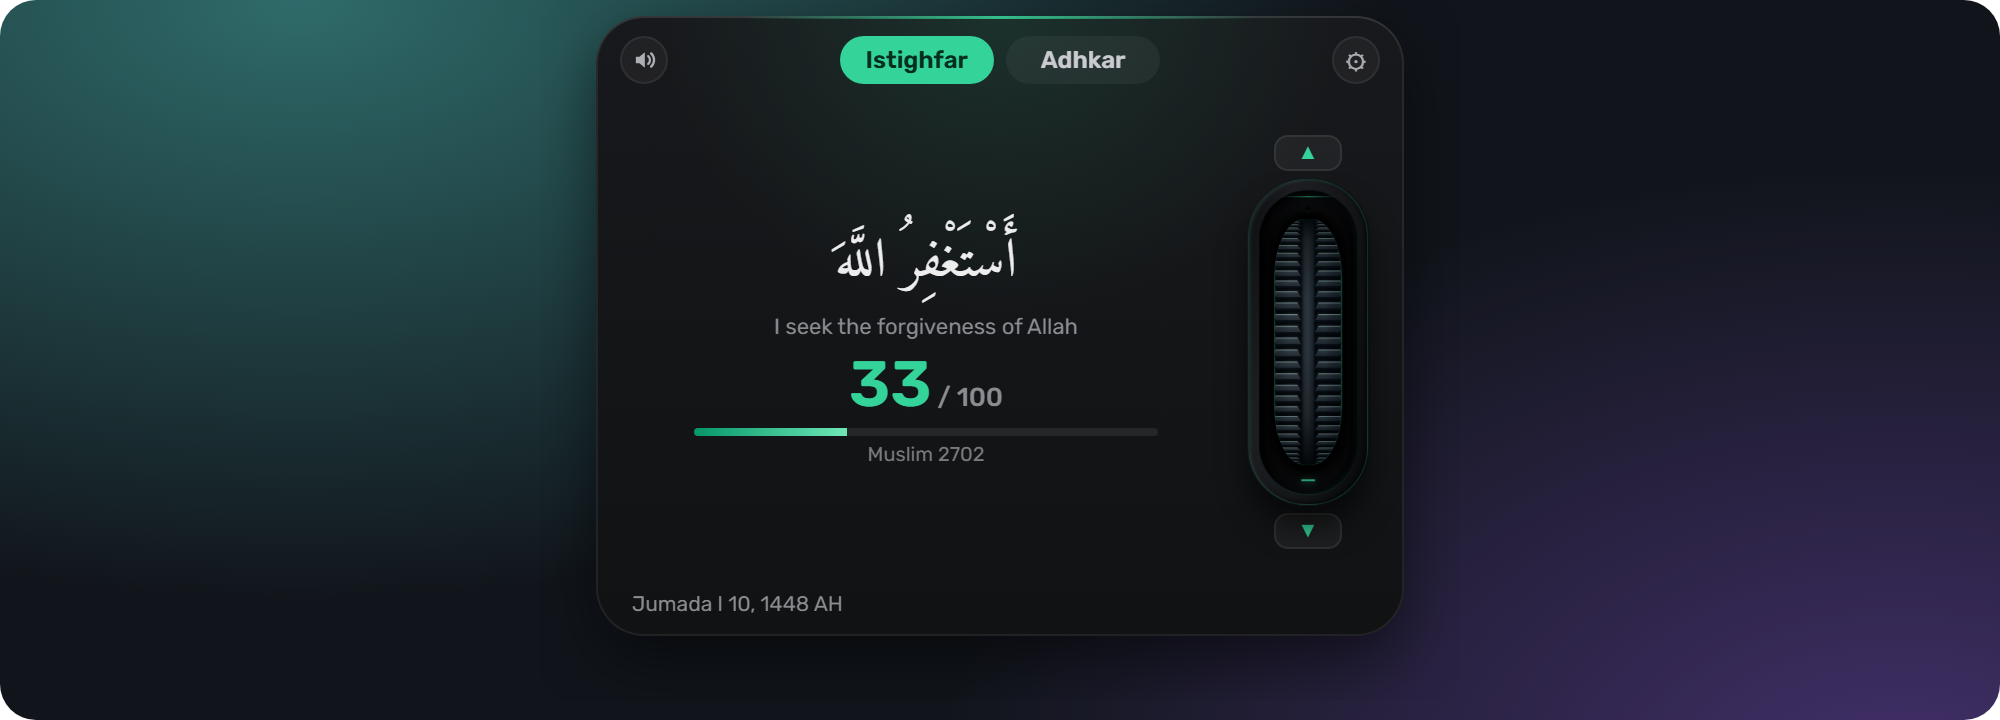
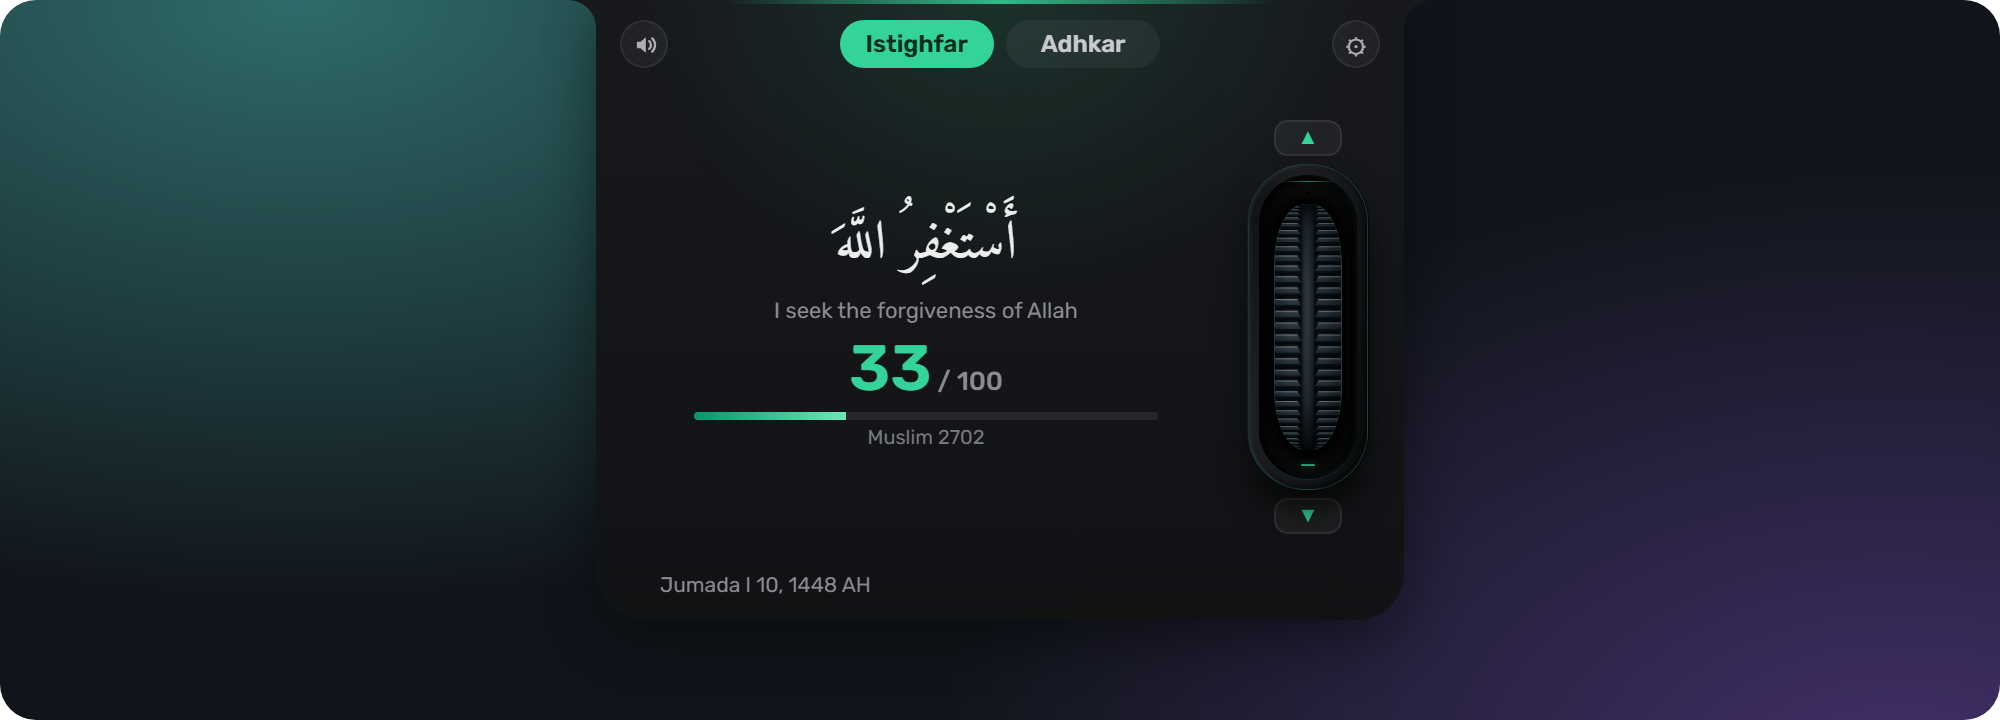
README: notch hero, new theme picks, adhkar screenshot; simpler AI tools page (#6)
- Hero shows the notch style; the theme grid shows Graphite, Fes, Clay, Minimal,
  Lantern and Marrakech without names; the Arabic screenshot becomes an adhkar one.
- Drop the translations question and the developers link.
- docs/AI-TOOLS.md now tells the two ways to connect (Settings, or the agent
  with the skill) and drops the local API section for now.
- Browser mock: ?count applies to every dhikr, plus ?tab=adhkar and ?pack=.

diff --git a/src/dev/browser-mock.ts b/src/dev/browser-mock.ts
@@ -5,9 +5,11 @@
 //   ?section=2 (opens that sidebar page)
 // From the console: __ghars.agent("busy" | "idle" | "attention"), __ghars.waiting(), __ghars.hotkey(),
 //   __ghars.updateAvailable("1.2.3")
-// URL options for the island: ?edge=left|right, ?notice=now|soon, ?open=1 (opens it), ?count=33 (today's istighfar)
+// URL options for the island: ?edge=left|right, ?notice=now|soon, ?open=1 (opens it), ?tab=adhkar, ?pack=general,
+//   ?count=33 (today's count for every dhikr)
 import { mockIPC, mockWindows } from "@tauri-apps/api/mocks";
 import { emit } from "@tauri-apps/api/event";
+import { PACKS } from "../shared/content";
 import { DEFAULT_SETTINGS, type Settings } from "../shared/settings";
 
 const params = new URLSearchParams(location.search);
@@ -19,6 +21,7 @@ const settings: Settings = {
   islandSize: (params.get("size") as Settings["islandSize"]) ?? "normal",
   islandPos: params.get("align") === "left" ? 0 : params.get("align") === "right" ? 1 : 0.5,
   onboarded: params.get("onboarded") !== "0",
+  packMode: (params.get("pack") as Settings["packMode"]) ?? DEFAULT_SETTINGS.packMode,
   prayer: params.get("prayer")
     ? { ...DEFAULT_SETTINGS.prayer, enabled: true, lat: 31.9539, lng: 35.9106, label: "Amman", cityId: "amman" }
     : DEFAULT_SETTINGS.prayer,
@@ -29,9 +32,13 @@ const stores: Record<number, Map<string, unknown>> = {
   2: new Map<string, unknown>(),
 };
 if (params.get("count")) {
+  const n = Number(params.get("count"));
   const d = new Date();
   const day = `${d.getFullYear()}-${String(d.getMonth() + 1).padStart(2, "0")}-${String(d.getDate()).padStart(2, "0")}`;
-  stores[2].set("days", { [day]: { istighfar: Number(params.get("count")) } });
+  // Every adhkar item gets the same count too, kept below its target so it isn't marked done.
+  const counts: Record<string, number> = { istighfar: n };
+  for (const pack of Object.values(PACKS)) for (const item of pack.items) counts[item.id] = Math.min(n, item.target - 1);
+  stores[2].set("days", { [day]: counts });
 }
 const status = { busy: false, attention: false, sources: [] as string[] };
 
@@ -129,6 +136,8 @@ async function agent(kind: "busy" | "idle" | "attention") {
 if (params.get("notice")) setTimeout(() => void emit("test-prayer", params.get("notice") === "soon" ? "soon" : "now"), 1200);
 // ?open=1 opens the island as the hotkey would, for screenshots.
 if (params.get("open")) setTimeout(() => void emit("hotkey", "toggle"), 800);
+// ?tab=adhkar switches to the adhkar once the island has finished opening.
+if (params.get("tab") === "adhkar") setTimeout(() => document.querySelectorAll<HTMLButtonElement>("button.tab")[1]?.click(), 2500);
 // ?section=3 opens the settings page at that position in the sidebar (0 = the first).
 if (params.get("section"))
   setTimeout(() => document.querySelectorAll<HTMLButtonElement>("nav button")[Number(params.get("section"))]?.click(), 800);

diff --git a/docs/AI-TOOLS.md b/docs/AI-TOOLS.md
@@ -1,46 +1,47 @@
 # Ghars and your AI tools
 
-Ghars opens by itself while your AI coding agent is working, so the waiting time becomes
-remembrance. It never closes on its own: move the mouse over it and away, press Esc, or click ×.
+When your AI coding agent starts working, Ghars opens by itself with adhkar, so the waiting time
+becomes remembrance. It never closes on its own: move the mouse over it and away, press Esc, or
+click ×.
 
-## Connect
+It works with **Claude Code, Cursor, Codex CLI, Gemini CLI and GitHub Copilot** (Copilot CLI and
+agent mode in VS Code).
 
-**Settings → AI tools → Connect.** Ghars adds hooks to the tool's user config and only touches
-entries pointing at its own local URL. The first time it changes a file it keeps a
-`<file>.ghars.bak` copy. **Disconnect** removes only Ghars's own hooks, never yours, even when they
-share a group. The hooks always exit successfully, so your tools don't report an error while Ghars
-isn't running, and after an update Ghars upgrades the hooks it installed on its first launch.
-If another program holds port 47821, Settings → AI tools shows a warning.
+## Two ways to connect
 
-| Tool | Config file | Notes |
-|---|---|---|
-| Claude Code | `~/.claude/settings.json` | Command hook (`curl`); your prompt is never sent to Ghars |
-| Cursor | `~/.cursor/hooks.json` | |
-| Codex CLI | `~/.codex/hooks.json` | Codex asks you to trust new hooks once: run `/hooks` and approve the Ghars entries |
-| Gemini CLI | `~/.gemini/settings.json` | |
-| GitHub Copilot | `~/.copilot/hooks/ghars.json` (`$COPILOT_HOME/hooks/` if set) | A file of Ghars's own, deleted on Disconnect. Read by Copilot CLI (restart it after connecting) and by Copilot agent mode in VS Code, which always looks in `~/.copilot/hooks` |
+### 1. From Settings
 
-Prefer to let your agent do it? Install the bundled **ghars-setup** skill (Settings → AI tools →
-Install skill) and ask your agent to "set up Ghars". The skill lives in [`skills/ghars-setup`](../skills/ghars-setup/SKILL.md).
+Open **Settings → AI tools**. Ghars lists the tools it finds on your computer. Click **Connect**
+next to each one, or **Connect all detected tools**.
 
-## Local API
+### 2. Let your agent do it
 
-Ghars listens on `127.0.0.1:47821` only. This is its only network use besides the daily update
-check. Anything can tell it you're waiting:
+In **Settings → AI tools**, click **Install skill**. Then ask your agent:
 
-```sh
-curl -X POST http://127.0.0.1:47821/v1/busy   # island opens with adhkar
-npm run build
-curl -X POST http://127.0.0.1:47821/v1/idle
-```
+> Set up Ghars
 
-| Endpoint | |
+The agent connects itself and checks that the island opens.
+(The skill lives in [`skills/ghars-setup`](../skills/ghars-setup/SKILL.md).)
+
+## Good to know
+
+- **Codex** asks you to trust new hooks once. In Codex, run `/hooks` and approve the Ghars entries.
+  Until then, Settings shows a reminder.
+- **Copilot CLI** picks up the connection after you restart it.
+- **Disconnect** removes only what Ghars added. Your own settings stay as they are.
+- The first time Ghars changes a file, it keeps a copy next to it, ending in `.ghars.bak`.
+- If Ghars isn't running, your tools keep working normally, without errors.
+- Your prompts and code are never sent to Ghars. It only learns that the agent started or stopped.
+
+## What Ghars changes
+
+Connecting adds a small "hook" to the tool's settings file. A hook tells Ghars when the agent
+starts and stops working.
+
+| Tool | File |
 |---|---|
-| `POST /v1/event/{source}/{busy\|idle\|attention\|end}` | Used by hooks; the body may contain the tool's `session_id` |
-| `POST /v1/busy`, `/v1/idle`, `/v1/attention` | For scripts (`?session=` optional) |
-| `GET /v1/status` | `{ busy, attention, sources }` |
-| `GET /health` | `200` while Ghars is running (used by the setup skill) |
-| `GET /v1/integrations`, `POST /v1/setup` | Used by the setup skill (`POST` needs header `X-Ghars: 1`) |
-
-Requests from web pages (anything sending an `Origin` header, or a `Host` other than `127.0.0.1` /
-`localhost`) are rejected.
+| Claude Code | `~/.claude/settings.json` |
+| Cursor | `~/.cursor/hooks.json` |
+| Codex CLI | `~/.codex/hooks.json` |
+| Gemini CLI | `~/.gemini/settings.json` |
+| GitHub Copilot | `~/.copilot/hooks/ghars.json`, a file of Ghars's own (in `$COPILOT_HOME/hooks/` if that's set) |

diff --git a/README.md b/README.md
@@ -9,7 +9,7 @@
   <a href="https://github.com/saif-o99/ghars/releases/latest"><b>⬇ Download for Windows, macOS and Linux</b></a>
 </p>
 
-<p align="center"><img src="docs/images/hero.png" width="800" alt="The Ghars island open at the top of the screen, counting istighfar: 33 of 100"></p>
+<p align="center"><img src="docs/images/hero.png" width="800" alt="The Ghars island open below the top edge of the screen, counting istighfar: 33 of 100"></p>
 
 ## What is Ghars?
 
@@ -32,9 +32,9 @@ has a palm tree planted for them in Jannah (at-Tirmidhi 3464).
   Français, বাংলা.
 - **Look back** at your counts for today, this week and this month.
 
-<p align="center"><img src="docs/images/themes.png" width="800" alt="Six of the themes: Classic Fes, Iznik Tile, Manuscript, Lantern Night, Mashrabiya and Isfahan Lapis"></p>
+<p align="center"><img src="docs/images/themes.png" width="800" alt="Six of the 17 themes"></p>
 <p align="center">
-  <img src="docs/images/arabic.png" width="48%" alt="The island with the Arabic interface">
+  <img src="docs/images/adhkar.png" width="48%" alt="The adhkar: SubhanAllahi wa bihamdihi, 21 of 100, with its source">
   <img src="docs/images/prayer.png" width="48%" alt="Prayer notes: Maghrib in 5 minutes, and it's time for Maghrib">
 </p>
 
@@ -89,9 +89,6 @@ New versions install themselves when you choose to update from the tray menu.
 **Where do the texts come from?** From *Hisn al-Muslim*, with the reference shown for each dhikr.
 The pronunciation audio is computer-generated and is being reviewed by native Arabic speakers.
 
-**Are the translations checked?** Arabic and English are. The other languages are drafts and
-need review by native speakers. Help is welcome.
-
 **I found a mistake.** Please [open an issue](https://github.com/saif-o99/ghars/issues)
 with the item and the reference. Corrections from people of knowledge are very welcome.
 
@@ -99,7 +96,6 @@ with the item and the reference. Corrections from people of knowledge are very w
 
 - Review a translation in your language.
 - Report a mistake in a text or its reference.
-- Developers: see [docs/DEVELOPMENT.md](docs/DEVELOPMENT.md).
 
 ## License
 
